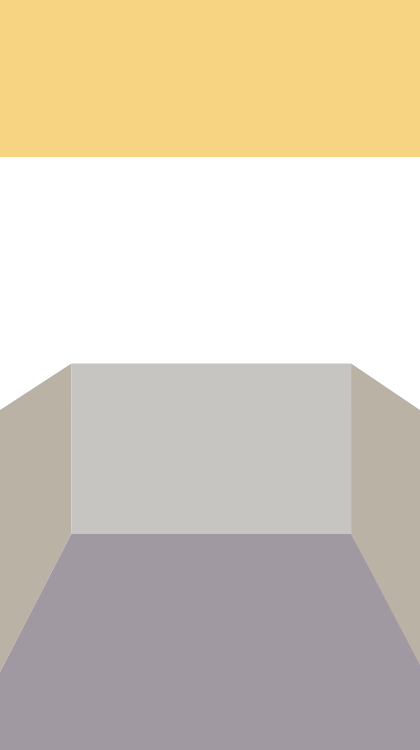
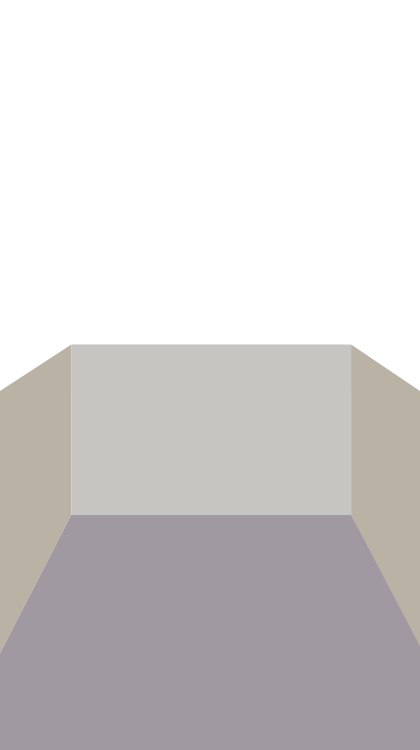
update background

diff --git a/js/main.js b/js/main.js
@@ -75,10 +75,9 @@ var game = new Phaser.Game(420,720, Phaser.AUTO, 'game');
 var mainpage ={
   preload:()=>{
 	game.load.tilemap('map', 'assets/json/b_map.json', null,Phaser.Tilemap.TILED_JSON);
-	game.load.image('background','assets/img/background.png');			
+	game.load.image('bgimage','assets/img/bgimage.png');			
 	game.load.image('endb','assets/img/endb3.png');
 	game.load.image('setb','assets/img/setb2.png');		
-	game.load.image('achb','assets/img/achb2.png');
 	game.load.image('wall','assets/img/wall.png');
 	game.load.image('wall2','assets/img/wall2.png');
 	game.load.image('bowl','assets/img/bowl.png');
@@ -100,7 +99,7 @@ var mainpage ={
 	Phaser.Canvas.setImageRenderingCrisp(game.canvas);
 	//載入
 	map = game.add.tilemap('map');
-	map.addTilesetImage('background','background');
+	map.addTilesetImage('bgimage','bgimage');
 	map.addTilesetImage('wall','wall');
 	map.addTilesetImage('wall2','wall2');
 	map.createLayer('layer3');
